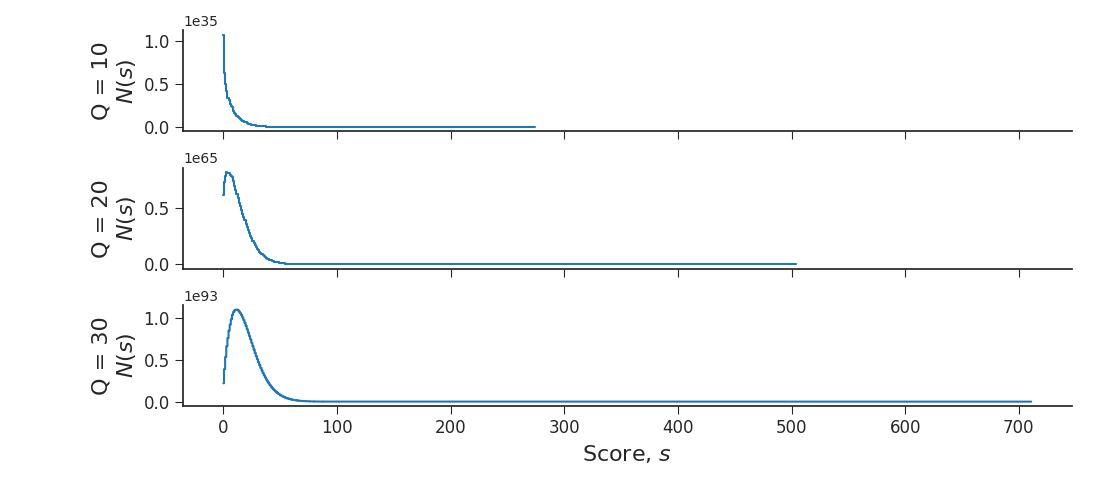
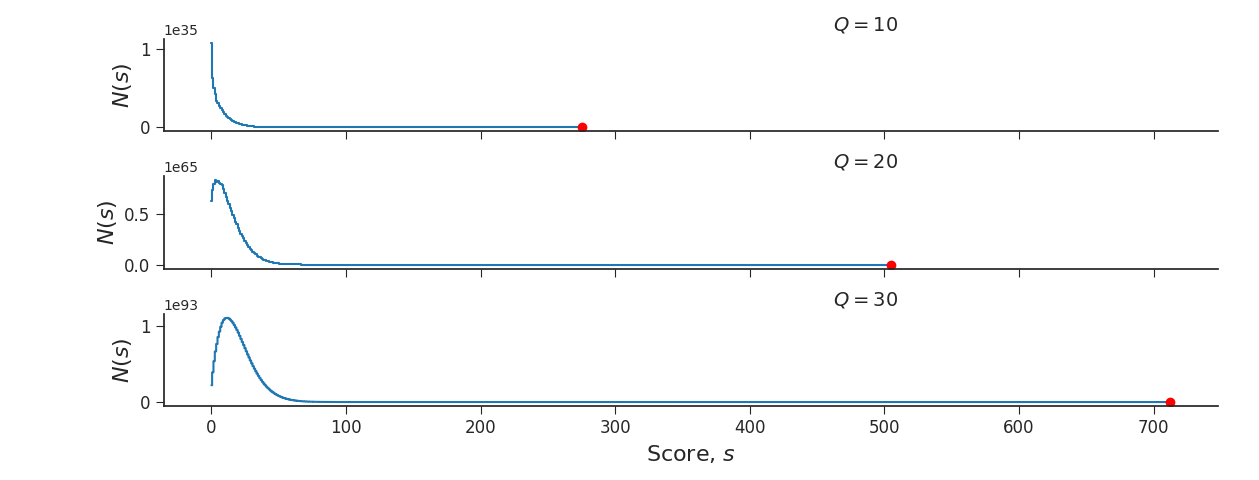
plot

diff --git a/exp/combine_plot_multiple.py b/exp/combine_plot_multiple.py
@@ -43,7 +43,7 @@ def one_plot(ax, Q):
 
     ax.loglog(genesetdp_ix, genesetdp_sorted,'.')
     ax.loglog(genesetdp_ix, genesetdp_sorted_mc,'.')
-    ax.loglog(binox_ix, binox_both_sorted, '.')
+    # ax.loglog(binox_ix, binox_both_sorted, '.')
     ax.loglog(binox_ix, binox_enrich_sorted, '.')
 
     ax.loglog(x_y, '--', color = 'r', alpha = 0.5)
@@ -70,14 +70,14 @@ for ax in [ax1,ax2,ax3]:
     ax.xaxis.set_tick_params(labelsize=12)
     ax.yaxis.set_tick_params(labelsize=12)
 
-# lgd = fig.legend(['GeneSetDP', 'GeneSetMC', 'BinoX', 'BinoX (enriched)'], loc='center left', bbox_to_anchor=(0.85,0.5))
-# fig.legend(['GeneSetDP', 'GeneSetMC', 'BinoX', 'BinoX (enriched)'], fontsize=15)
+lgd = fig.legend(['GeneSetDP', 'GeneSetMC', 'BinoX'], loc='center', ncol =3, bbox_to_anchor=(0.5,0), fontsize=16)
+# fig.legend(['GeneSetDP', 'GeneSetMC', 'BinoX'], fontsize=15, ncol=3)
 
 
 fig.set_size_inches(15,4)
-# fig.savefig('calibration_multiple.png', bbox_extra_artists=(lgd,), bbox_inches='tight')
-fig.savefig('calibration_multiple.png', bbox_inches='tight')
-plt.show()
+fig.savefig('calibration_multiple.png', bbox_extra_artists=(lgd,), bbox_inches='tight')
+# fig.savefig('calibration_multiple.png', bbox_inches='tight')
+# plt.show()
 
 # plt.savefig('calibration_multiple.png')
 # plt.show()

diff --git a/exp/figure_distribuition.py b/exp/figure_distribuition.py
@@ -34,10 +34,14 @@ fig, (ax1, ax2, ax3) = plt.subplots(3, 1, sharex=True)
 sns.set_style("ticks")
 sns.despine()
 
-ax1.set_ylabel('Q = 10\n$N(s)$', fontsize=16)
-ax2.set_ylabel('Q = 20\n$N(s)$', fontsize=16)
-ax3.set_ylabel('Q = 30\n$N(s)$', fontsize=16)
+ax1.set_ylabel('$N(s)$', fontsize=16)
+ax2.set_ylabel('$N(s)$', fontsize=16)
+ax3.set_ylabel('$N(s)$', fontsize=16)
 ax3.set_xlabel('Score, $s$', fontsize=16)
+
+ax1.set_title('                       $Q=10$', fontsize=14, horizontalalignment='left')
+ax2.set_title('                       $Q=20$', fontsize=14, horizontalalignment='left')
+ax3.set_title('                       $Q=30$', fontsize=14, horizontalalignment='left')
 
 for ax in [ax1,ax2,ax3]:
     ax.xaxis.set_tick_params(labelsize=12)
@@ -45,11 +49,14 @@ for ax in [ax1,ax2,ax3]:
 
 
 ax1.step(np.arange(len(N10)), N10, where='mid')
+ax1.plot(len(N10),1, '.', color='r', markersize=12)
 ax2.step(np.arange(len(N20)), N20, where='mid')
+ax2.plot(len(N20),1, '.', color='r', markersize=12)
 ax3.step(np.arange(len(N30)), N30, where='mid')
+ax3.plot(len(N30),1, '.', color='r', markersize=12)
 
 plt.tight_layout()
-plt.savefig('score_distribuition_multiple.png')
+# plt.savefig('score_distribuition_multiple.png')
 plt.show()
 
 
